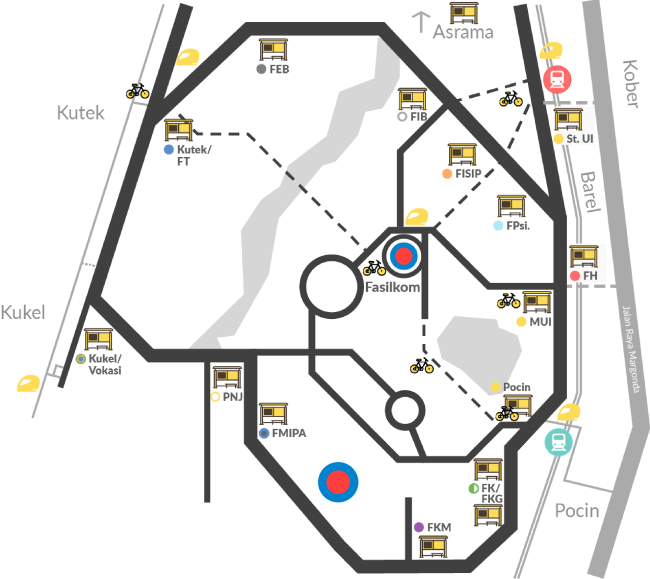
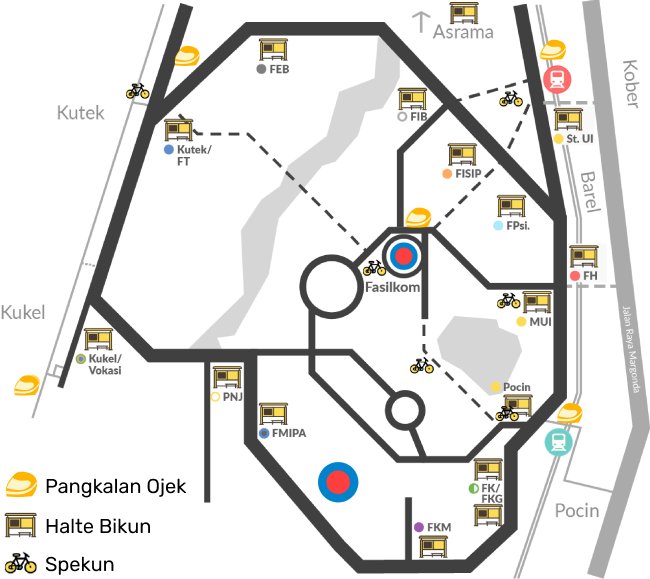
improved content & changed peta transportasi

diff --git a/src/components/infoAkademik/scele.js b/src/components/infoAkademik/scele.js
@@ -12,7 +12,7 @@ export default function scele() {
             <h2 className="text-center">Pembelajaran dengan SCeLE</h2>
             <Row>
                 <Col md={8}>
-                    <p>Kegiatan pembelajaran di Fasilkom menggunakan Student Centered E-Learning Environment atau disingkat SCeLE. SCeLE Fasilkom memberi kamu akses materi dari semua matkul Fasilkom kecuali matkul wajib universitas, mendapatkan pengumuman, mengumpulkan tugas, mengerjakan kuis, hingga mengerjakan ujian online. </p>
+                    <p>Kegiatan pembelajaran di Fasilkom menggunakan Student Centered E-Learning Environment atau disingkat SCeLE. SCeLE Fasilkom memberi kamu akses materi dari semua matkul Fasilkom (kecuali matkul wajib universitas), mendapatkan pengumuman, mengumpulkan tugas, mengerjakan kuis, hingga mengerjakan ujian online. </p>
                     <p>Kamu bisa mengakses SCeLE Fasilkom melalui <a target="blank" href="https://scele.cs.ui.ac.id/">https://scele.cs.ui.ac.id/</a>, untuk tutorial penggunaannya dapat dilihat melalui:</p>
                     <a href="https://scele.cs.ui.ac.id/static/tutorial/tutorial_mahasiswa.pdf" target="blank"><Button variant="secondary" style={{ margin:"0 10px 1rem" }}>Click di sini</Button></a>
                     <p>Untuk mengakses SCeLE UI dapat melalui <a target="blank" href="https://scele.ui.ac.id/">https://scele.ui.ac.id/</a>. SCeLE UI tidak digunakan dalam pembelajaran di Fasilkom, sebab untuk materi wajib universitas yaitu MPKT-B dan MPKT-A, kamu dapat mengaksesnya secara langsung melalui <a target="blank" href="https://emas.ui.ac.id/">https://emas.ui.ac.id/</a>.</p>

diff --git a/src/components/infoPacil/ngoding101.js b/src/components/infoPacil/ngoding101.js
@@ -23,7 +23,7 @@ export default class ngoding101 extends Component {
                     <Row>
                         <Col lg={5}><img alt="asset" src={asset} className="asset" /></Col>
                         <Col lg={7}>
-                            <p>Pada tahun pertama di Fasilkom, kamu akan belajar bahasa pemrograman <b>Python</b> dan <b>Java</b>. Nahh apa saja yaa tips-tips untuk belajar ngoding?</p>
+                            <p>Pada tahun pertama di Fasilkom, kamu akan belajar bahasa pemrograman <b>Python</b> dan <b>Java</b>. Nahh, apa saja yaa, tips-tips untuk belajar ngoding?</p>
                             <ListGroup variant="flush" className="tips">
                                 { tips.map( (tips, idx) => (
                                     <ListGroup.Item key={idx} className="d-flex align-items-center">

diff --git a/src/pages/infoKampus.js b/src/pages/infoKampus.js
@@ -22,7 +22,7 @@ export default class infoKampus extends Component {
 
     render() {
         const title = "Info Kampus"
-        const desc = "Mau keliling UI tapi tidak tahu jalan? Mau ngekost tapi bingung di mana? Ingin tahu tempat-tempat iconic di UI? Semua pertanyaanmu akan terjawab di halaman ini. Ayo, makin kenal dengan kampus kita!"
+        const desc = "Mau keliling UI tapi tidak tahu jalan? Mau ngekost tapi bingung di mana? Ingin tahu tempat-tempat ikonis di UI? Semua pertanyaanmu akan terjawab di halaman ini. Ayo, makin kenal dengan kampus kita!"
 
         return (
             <Styles>

diff --git a/src/pages/kanalInfo.js b/src/pages/kanalInfo.js
@@ -19,7 +19,7 @@ export default class kanalInfo extends Component {
       
     render() {
         const title = "Kanal Informasi"
-        const desc = "Ingin tahu lebih banyak tentang informasi birokrasi dan advokasi di Fasilkom? Di halaman ini, kamu dapat menyimak beberapa kanal informasi yang dapat kamu hubungin di Fasilkom!"
+        const desc = "Ingin tahu lebih banyak tentang informasi birokrasi dan advokasi di Fasilkom? Di halaman ini, kamu dapat menyimak beberapa kanal informasi yang dapat kamu hubungi di Fasilkom!"
         const data = kanal.info
 
         return (

diff --git a/src/pages/infoPacil.js b/src/pages/infoPacil.js
@@ -23,7 +23,7 @@ export default class infoPacil extends Component {
       
     render() {
         const title = "Info Fasilkom"
-        const desc = "Tak kenal maka tak sayang, Yuk, kenali makin dalam tentang Fasilkom! Halaman ini akan menjelaskan berbagai macam hal tentang fakultas tercinta kita."
+        const desc = "Tak kenal maka tak sayang. Yuk, kenali Fasilkom lebih dalam! Halaman ini akan menjelaskan berbagai macam hal tentang fakultas kita tercinta."
 
         return (
             <Styles>

diff --git a/src/styles/infoPacil.js b/src/styles/infoPacil.js
@@ -92,6 +92,10 @@ const Styles = styled.div`
         .subcard { padding: 1.5rem }
     }
 
+    #budaya {
+        text-align: justify;
+    }
+
     #pacilLife {  
         .kiri, .kanan {
             .row { height: 130px }

diff --git a/src/styles/kanalInfo.js b/src/styles/kanalInfo.js
@@ -39,6 +39,7 @@ const Styles = styled.div`
         span img {
             height: 18px;
         }
+        p { text-align: justify }
     }
 
     .card-columns {

diff --git a/src/styles/infoAkademik.js b/src/styles/infoAkademik.js
@@ -219,7 +219,7 @@ const Styles = styled.div`
     }
 
     #scele {
-
+        p { text-align: justify }
         .btn {
             margin: 10px; 
         }
